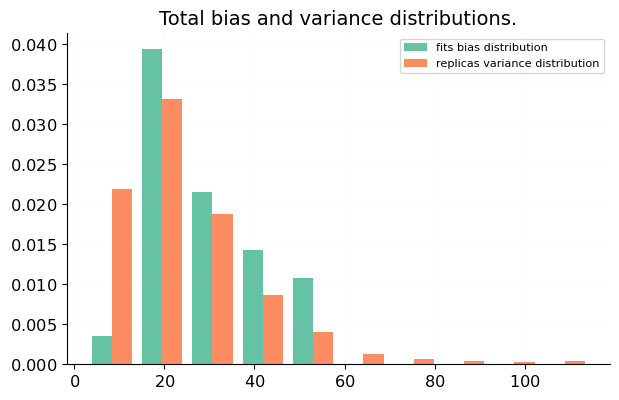
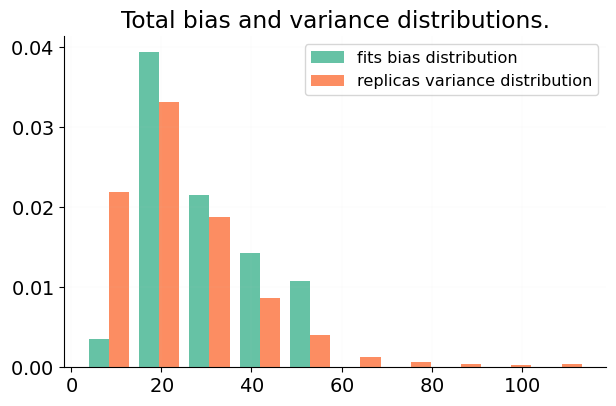
bigger closure plots

Changed region(s): [[0.0, 0.09, 0.987, 0.99], [0.1851, 0.0, 0.987, 0.24]]

diff --git a/closure_test/closure_test.tex b/closure_test/closure_test.tex
@@ -35,7 +35,7 @@
 
     \includegraphics[scale=0.3]{closure_test/plot_pdfs_g.png}
     
-    Sampling a random NNPDF replica as the input PDF for a closure test.
+    Example closure fit and input PDF.
     \column{0.5\textwidth}
     \reqnomode
     Allows testing of methodology, if the input assumptions hold.
